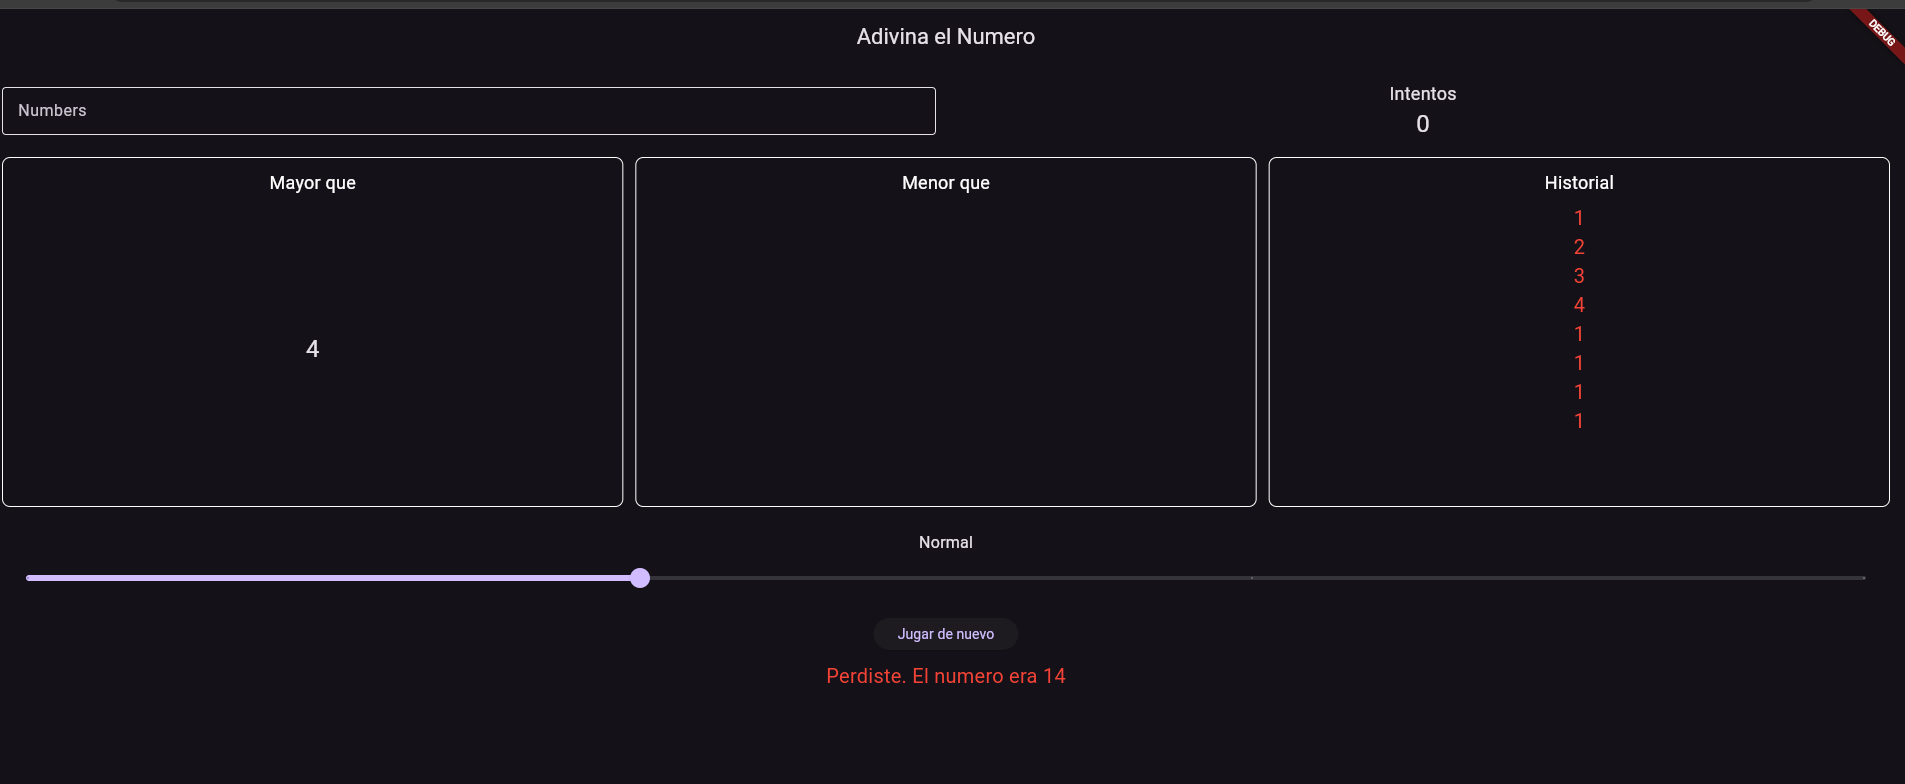
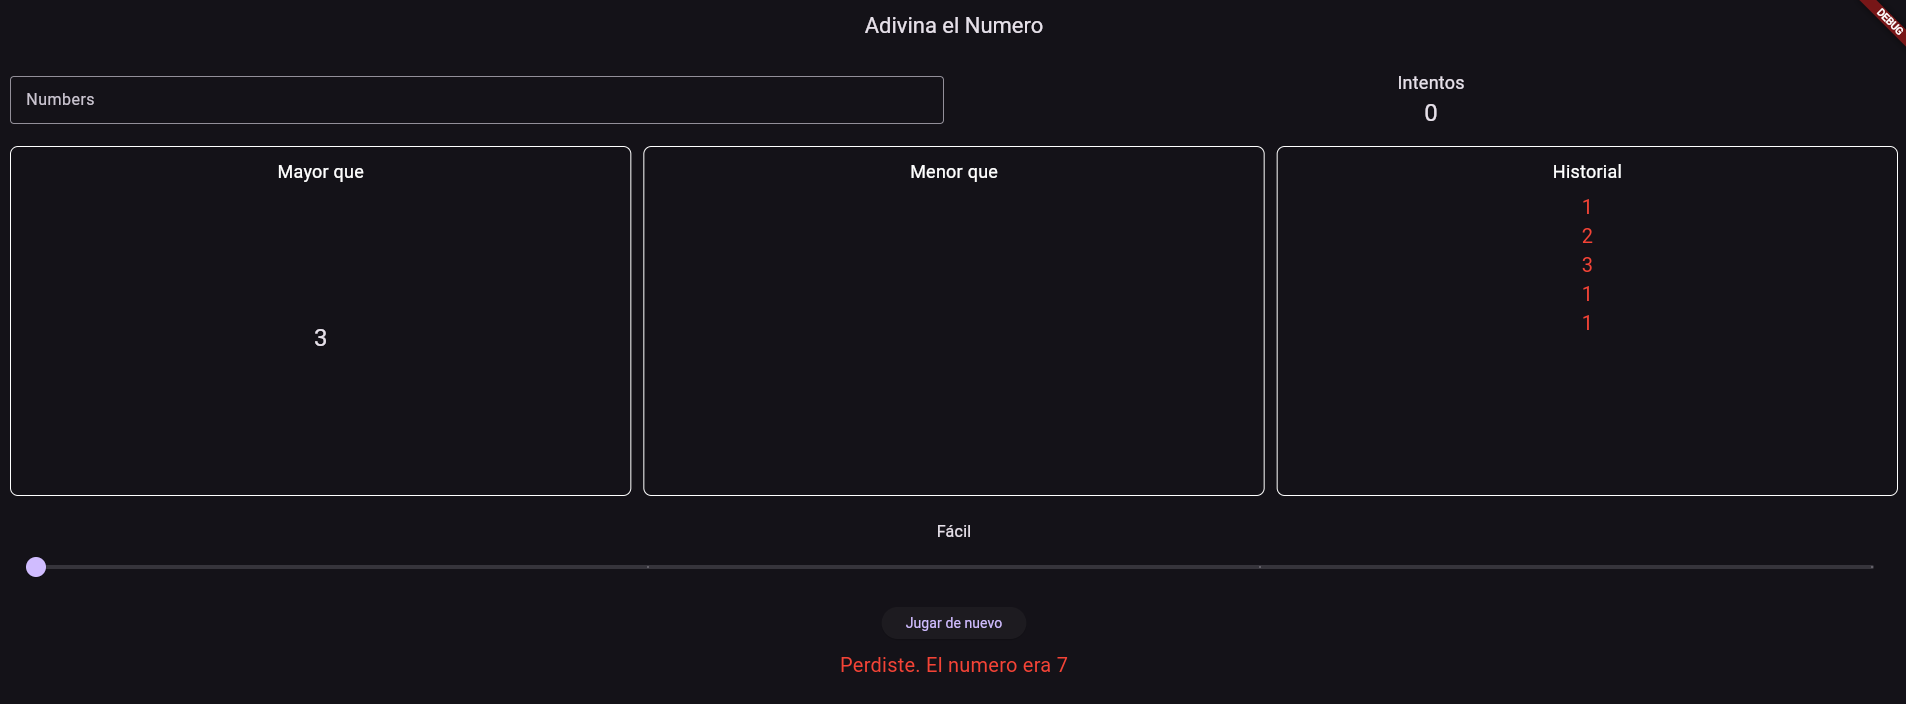
Correccion de ortografia

diff --git a/lib/modelos/nivel.dart b/lib/modelos/nivel.dart
@@ -6,13 +6,13 @@ class Nivel {
   Nivel({
     required this.nombre,
     required this.numeroMaximo,
-    required this.intentosMaximos
+    required this.intentosMaximos,
   });
 }
 
 final List<Nivel> niveles = [
-  Nivel(nombre: 'Facil', numeroMaximo: 10, intentosMaximos: 5),
-  Nivel(nombre: 'Normal', numeroMaximo: 20, intentosMaximos: 8),
-  Nivel(nombre: 'Dificil', numeroMaximo: 100, intentosMaximos: 15),
+  Nivel(nombre: 'Fácil', numeroMaximo: 10, intentosMaximos: 5),
+  Nivel(nombre: 'Medio', numeroMaximo: 20, intentosMaximos: 8),
+  Nivel(nombre: 'Avanzado', numeroMaximo: 100, intentosMaximos: 15),
   Nivel(nombre: 'Extremo', numeroMaximo: 1000, intentosMaximos: 25),
 ];